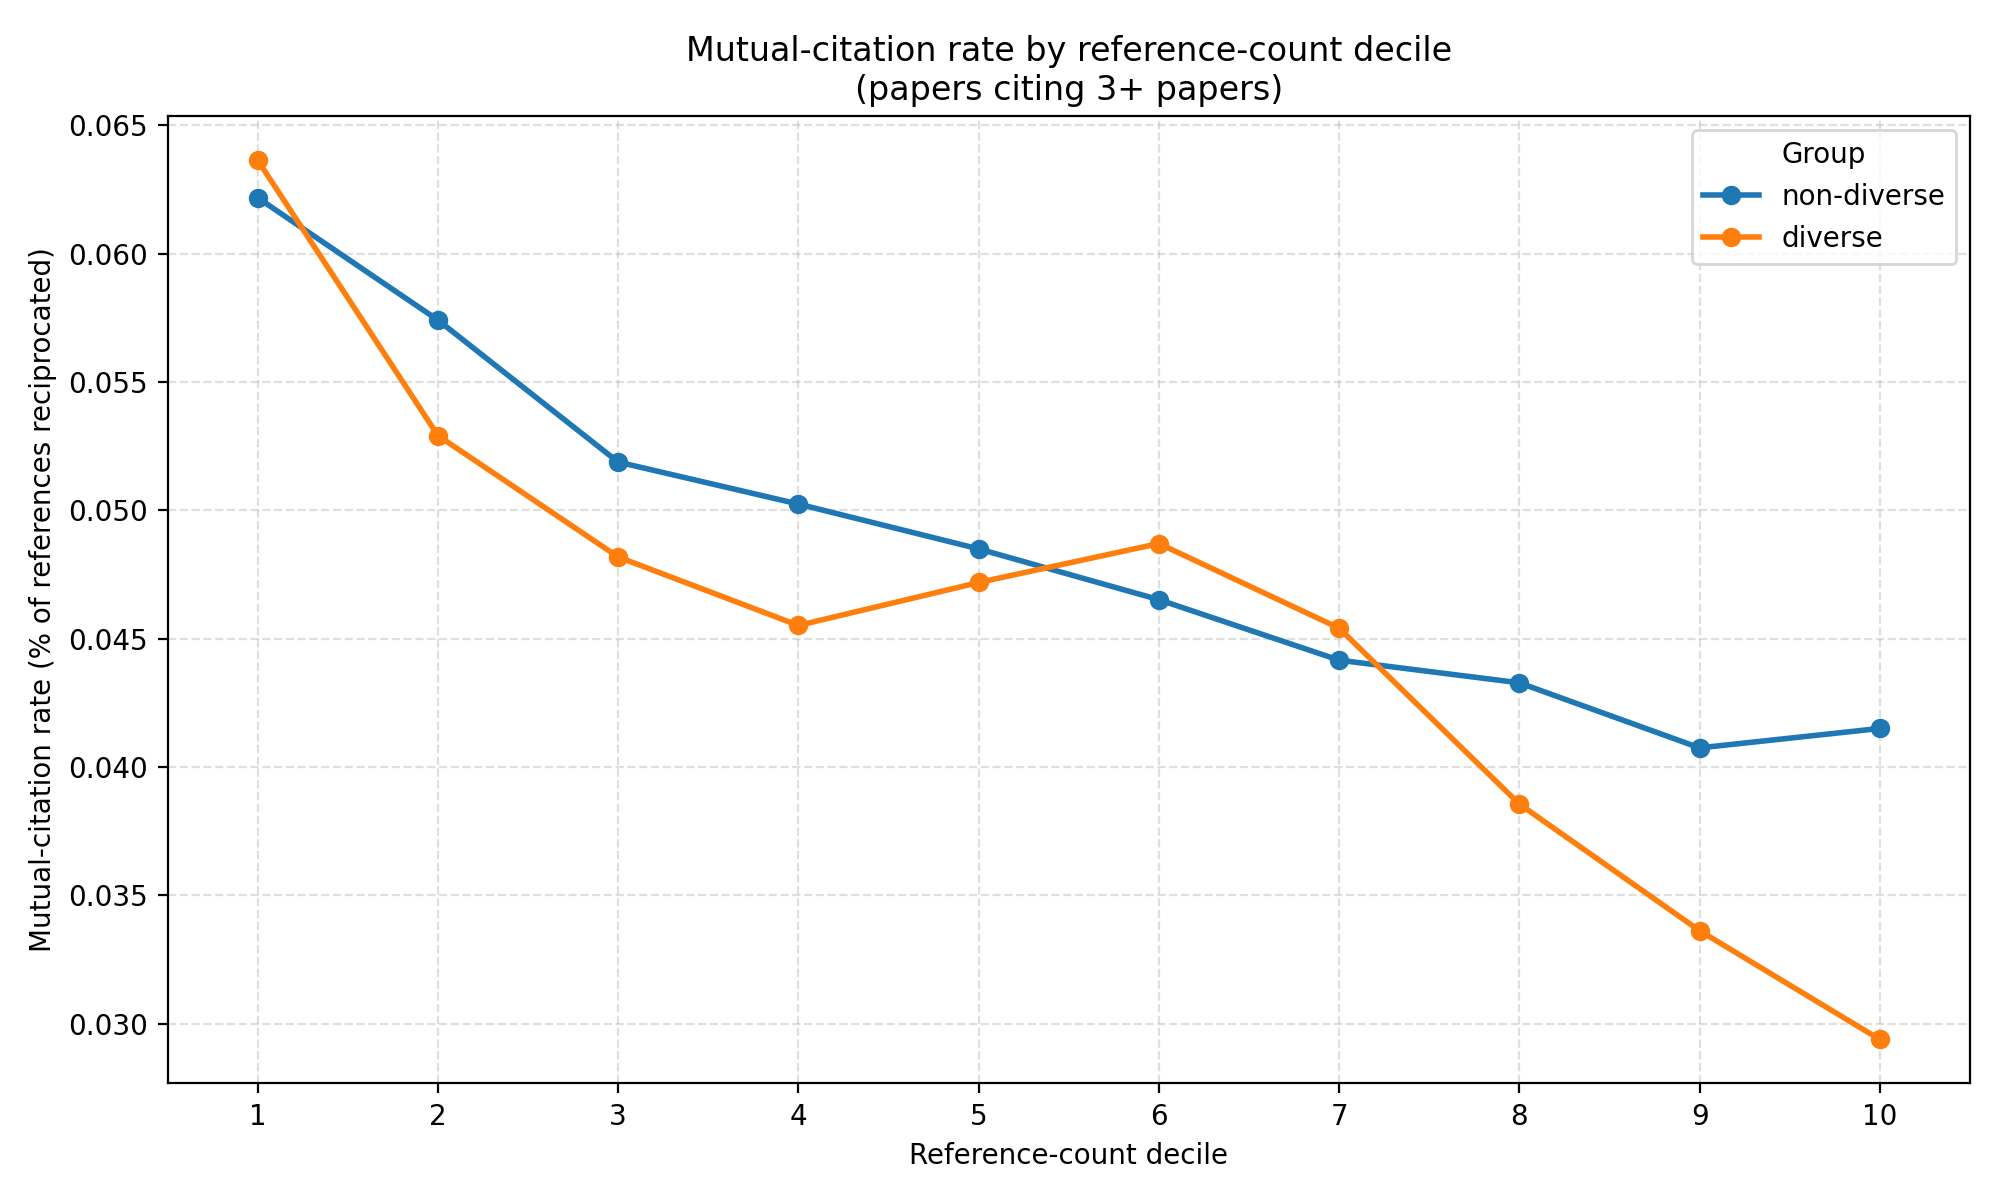
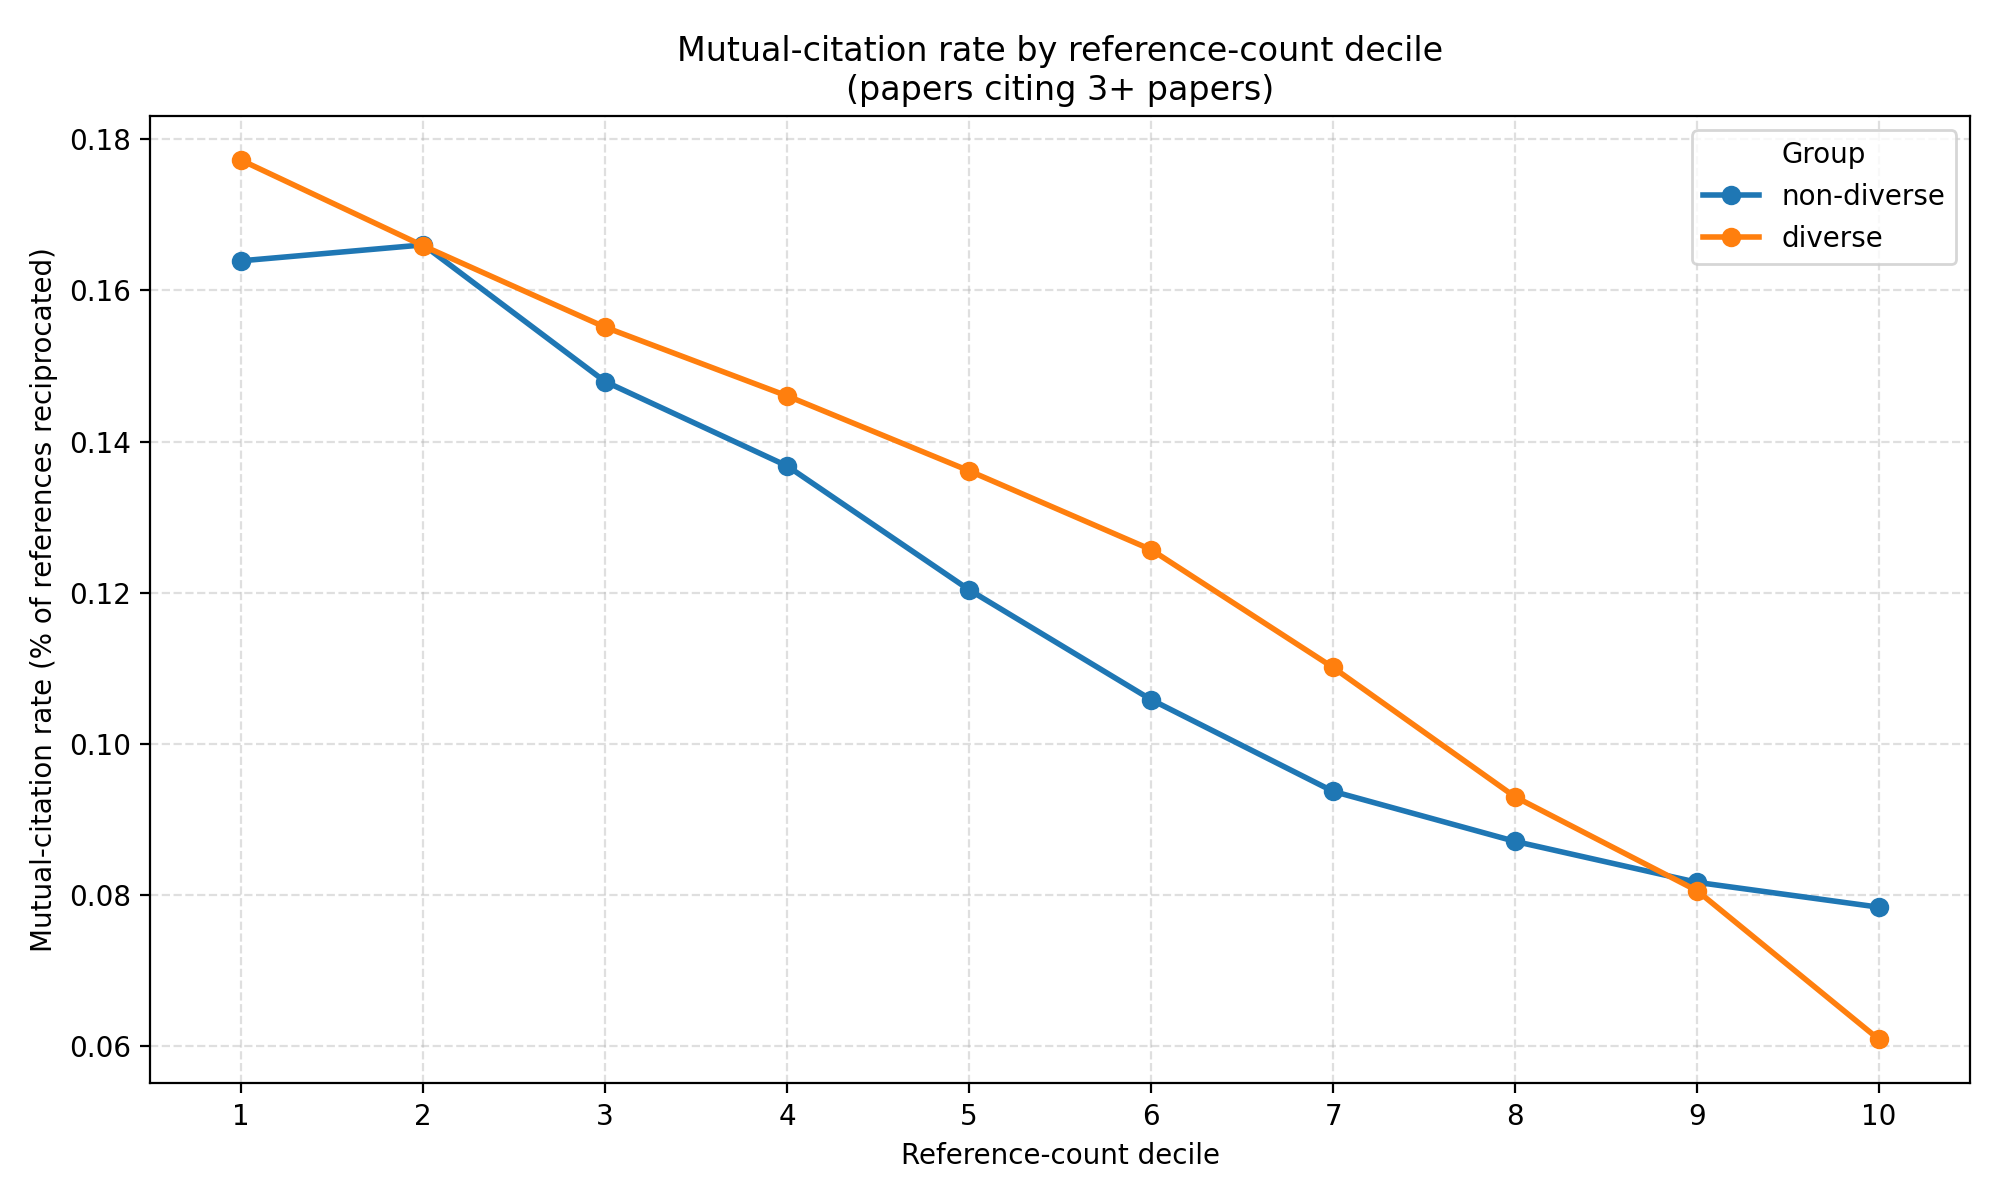
updated figures based on new csv

diff --git a/validation/compute_mutual_citation_lag.py b/validation/compute_mutual_citation_lag.py
@@ -8,8 +8,13 @@ the corpus's tail years are affected by right-censoring at the 2023 cutoff --
 a pair can only be observed as mutual once BOTH papers exist, so a pair formed
 late in the corpus has less time to complete than one formed decades earlier.
 
+Joins on the raw 'W'-prefixed id: attributes.id is VARCHAR in exactly the same
+format as mutual_pairs.csv, so no ltrim/CAST normalization is needed (casting
+both sides to BIGINT gives the same answer but forces a full cast of all 131M
+attributes rows twice).
+
 Env: PAIRS (default data/mutual_pairs.csv), ATTR (default data/attributes.duckdb),
-     OUT (default outputs/citation_lag/citation_lag_distribution.csv),
+     OUT (default figures/csvs/citation_lag_distribution.csv),
      MEM (default 10GB).
 """
 
@@ -19,7 +24,7 @@ import duckdb
 
 PAIRS = os.environ.get("PAIRS", "data/mutual_pairs.csv")
 ATTR = os.environ.get("ATTR", "data/attributes.duckdb")
-OUT = os.environ.get("OUT", "outputs/citation_lag/citation_lag_distribution.csv")
+OUT = os.environ.get("OUT", "figures/csvs/citation_lag_distribution.csv")
 MEM = os.environ.get("MEM", "10GB")
 
 
